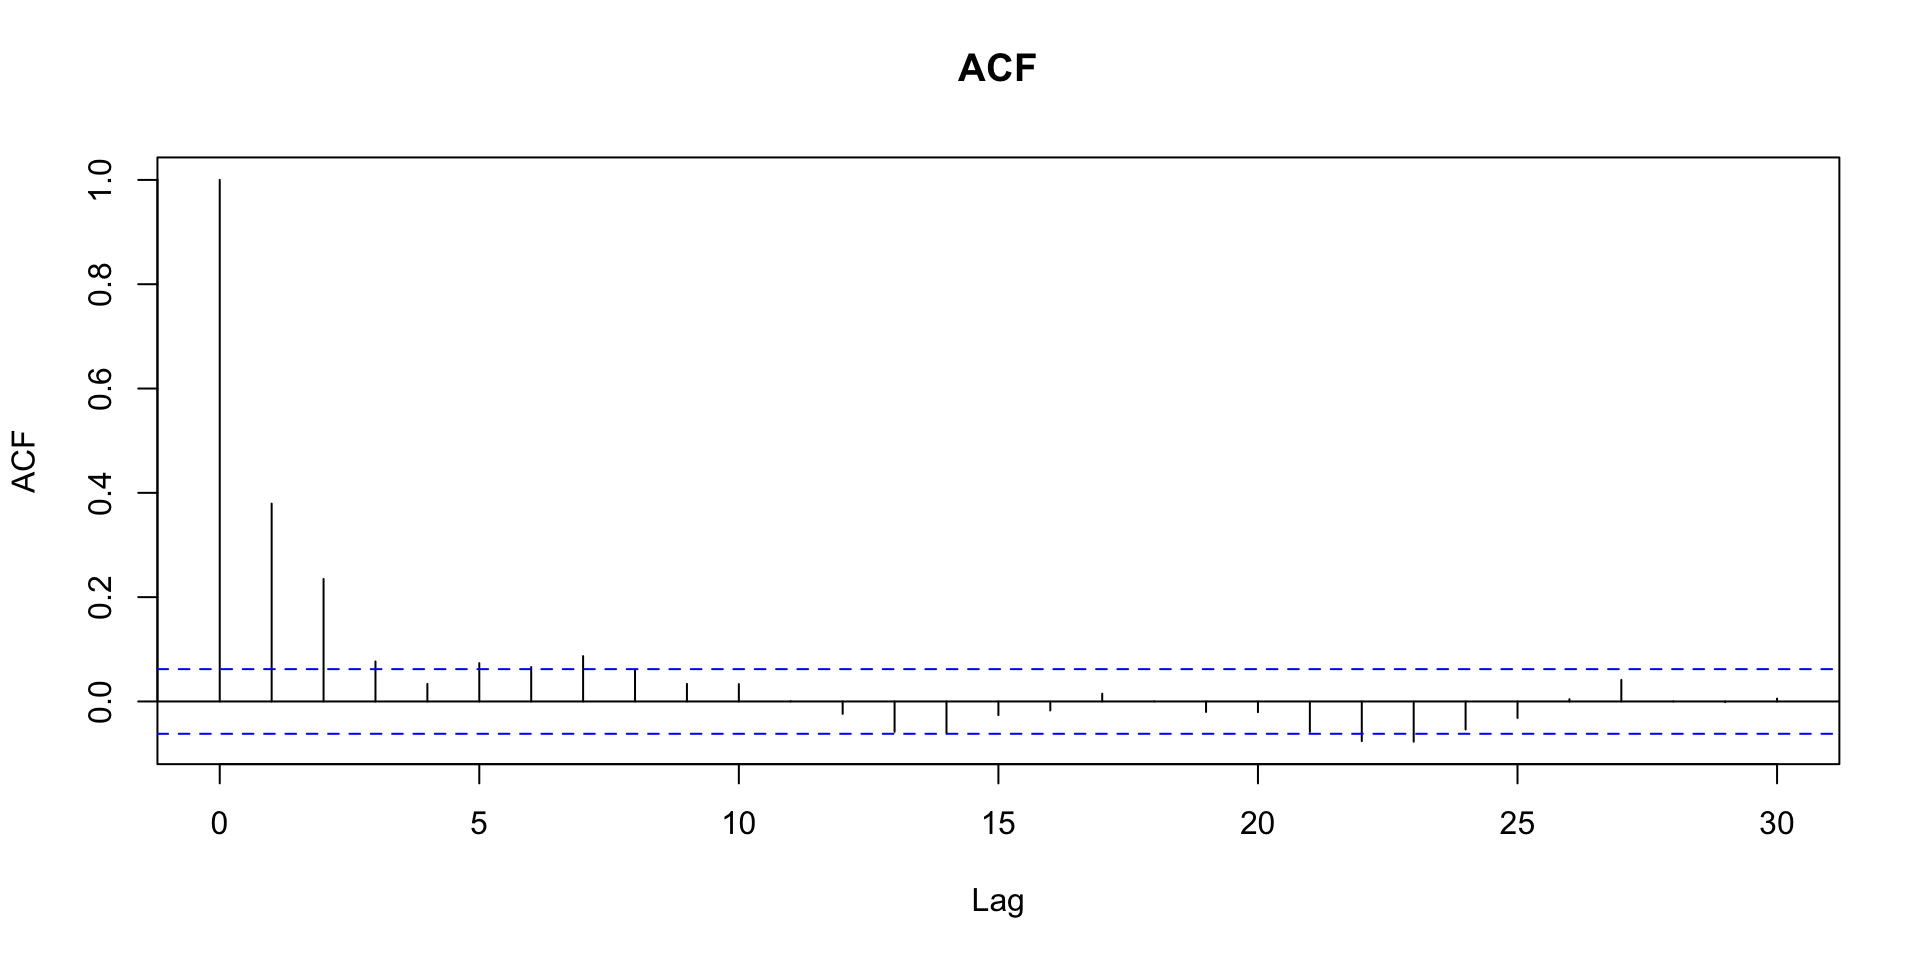
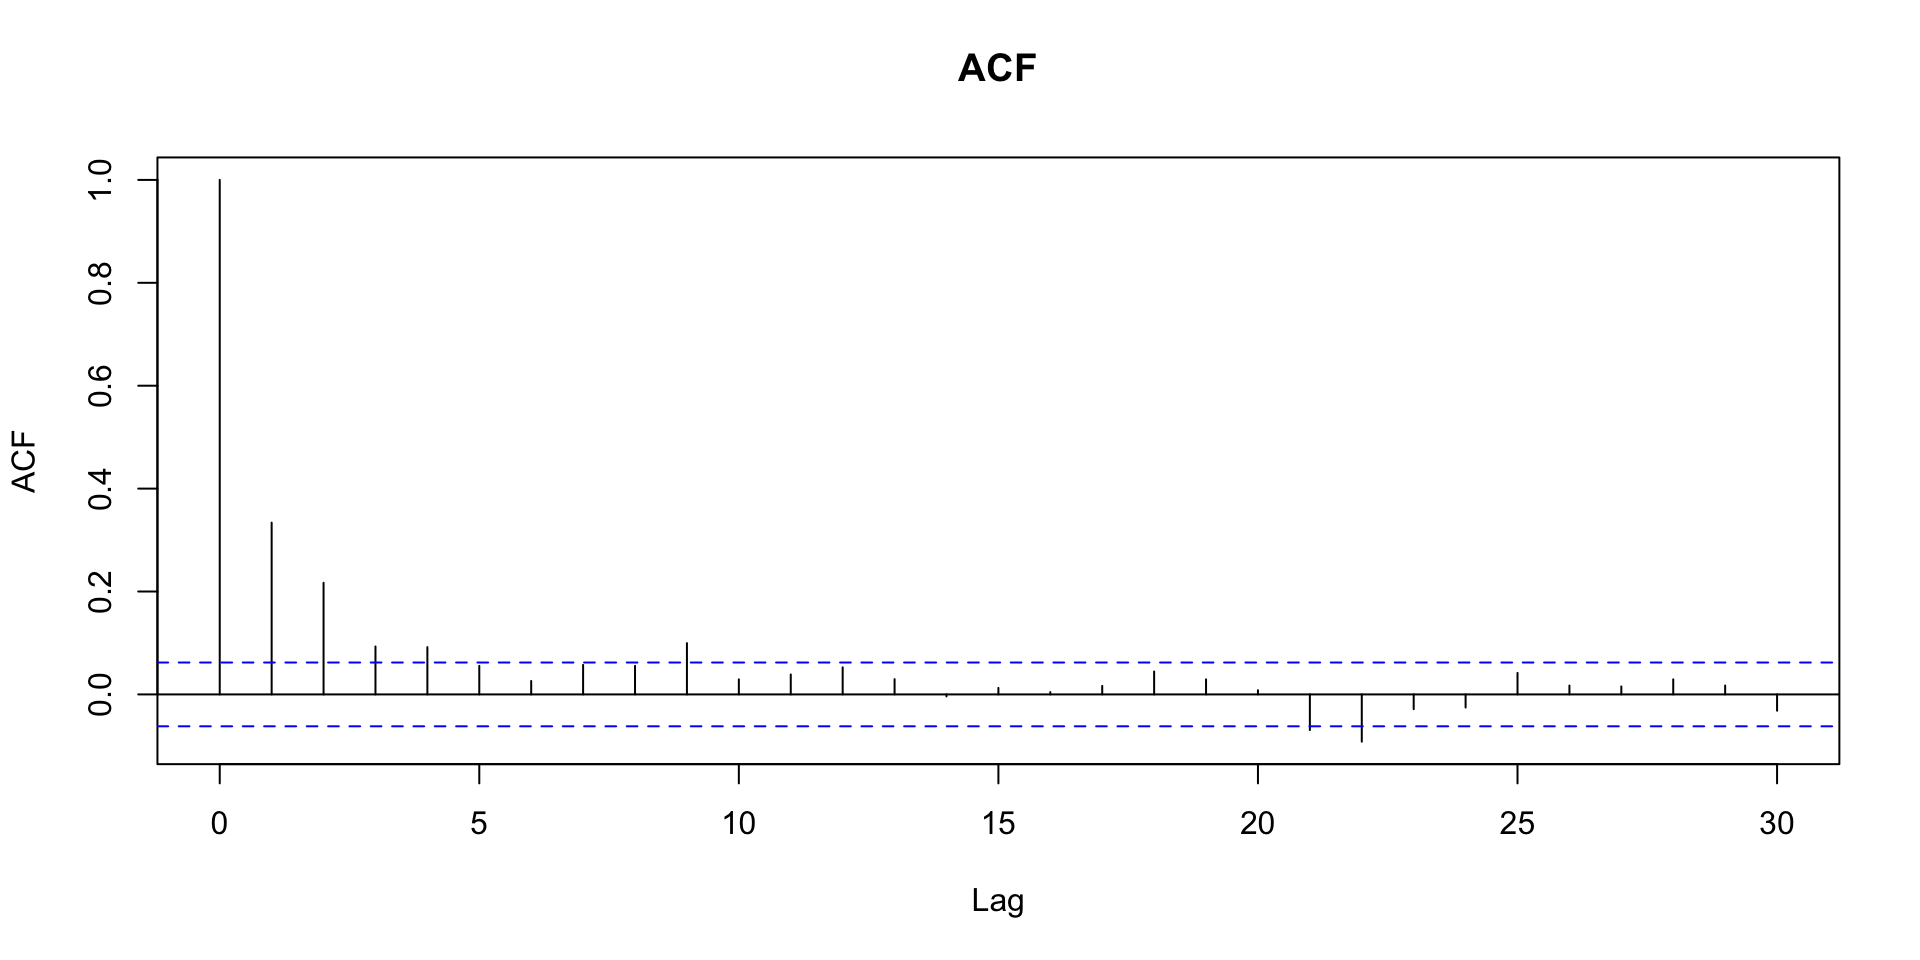
up

diff --git a/Aula11.html b/Aula11.html
@@ -911,7 +911,7 @@ Prof.&nbsp;Carlos Trucíos <br> ctrucios@unicamp.br
 <div class="cell" data-layout-align="center">
 <details>
 <summary>Code</summary>
-<div class="sourceCode cell-code" id="cb21"><pre class="sourceCode numberSource r number-lines code-with-copy"><code class="sourceCode r"><span id="cb21-1"><a href="#cb21-1"></a>y <span class="ot">&lt;-</span> <span class="fu">arima.sim</span>(<span class="at">model =</span> <span class="fu">list</span>(<span class="at">order =</span> <span class="fu">c</span>(<span class="dv">0</span>, <span class="dv">0</span>, <span class="dv">4</span>), <span class="at">ma =</span> <span class="fu">c</span>(<span class="fl">0.4</span>, <span class="fl">0.2</span>, <span class="fl">0.15</span>, <span class="fl">0.1</span>) ), <span class="at">n =</span> <span class="dv">1000</span>)</span>
+<div class="sourceCode cell-code" id="cb21"><pre class="sourceCode numberSource r number-lines code-with-copy"><code class="sourceCode r"><span id="cb21-1"><a href="#cb21-1"></a>y <span class="ot">&lt;-</span> <span class="fu">arima.sim</span>(<span class="at">model =</span> <span class="fu">list</span>(<span class="at">order =</span> <span class="fu">c</span>(<span class="dv">0</span>, <span class="dv">0</span>, <span class="dv">2</span>), <span class="at">ma =</span> <span class="fu">c</span>(<span class="fl">0.4</span>, <span class="fl">0.2</span>) ), <span class="at">n =</span> <span class="dv">1000</span>)</span>
 <span id="cb21-2"><a href="#cb21-2"></a><span class="fu">par</span>(<span class="at">mfrow =</span> <span class="fu">c</span>(<span class="dv">1</span>, <span class="dv">2</span>))   </span>
 <span id="cb21-3"><a href="#cb21-3"></a><span class="fu">acf</span>(y, <span class="at">main =</span> <span class="st">"ACF"</span>)</span>
 <span id="cb21-4"><a href="#cb21-4"></a><span class="fu">pacf</span>(y, <span class="at">main =</span> <span class="st">"PACF"</span>)</span></code><button title="Copy to Clipboard" class="code-copy-button"><i class="bi"></i></button></pre></div>
